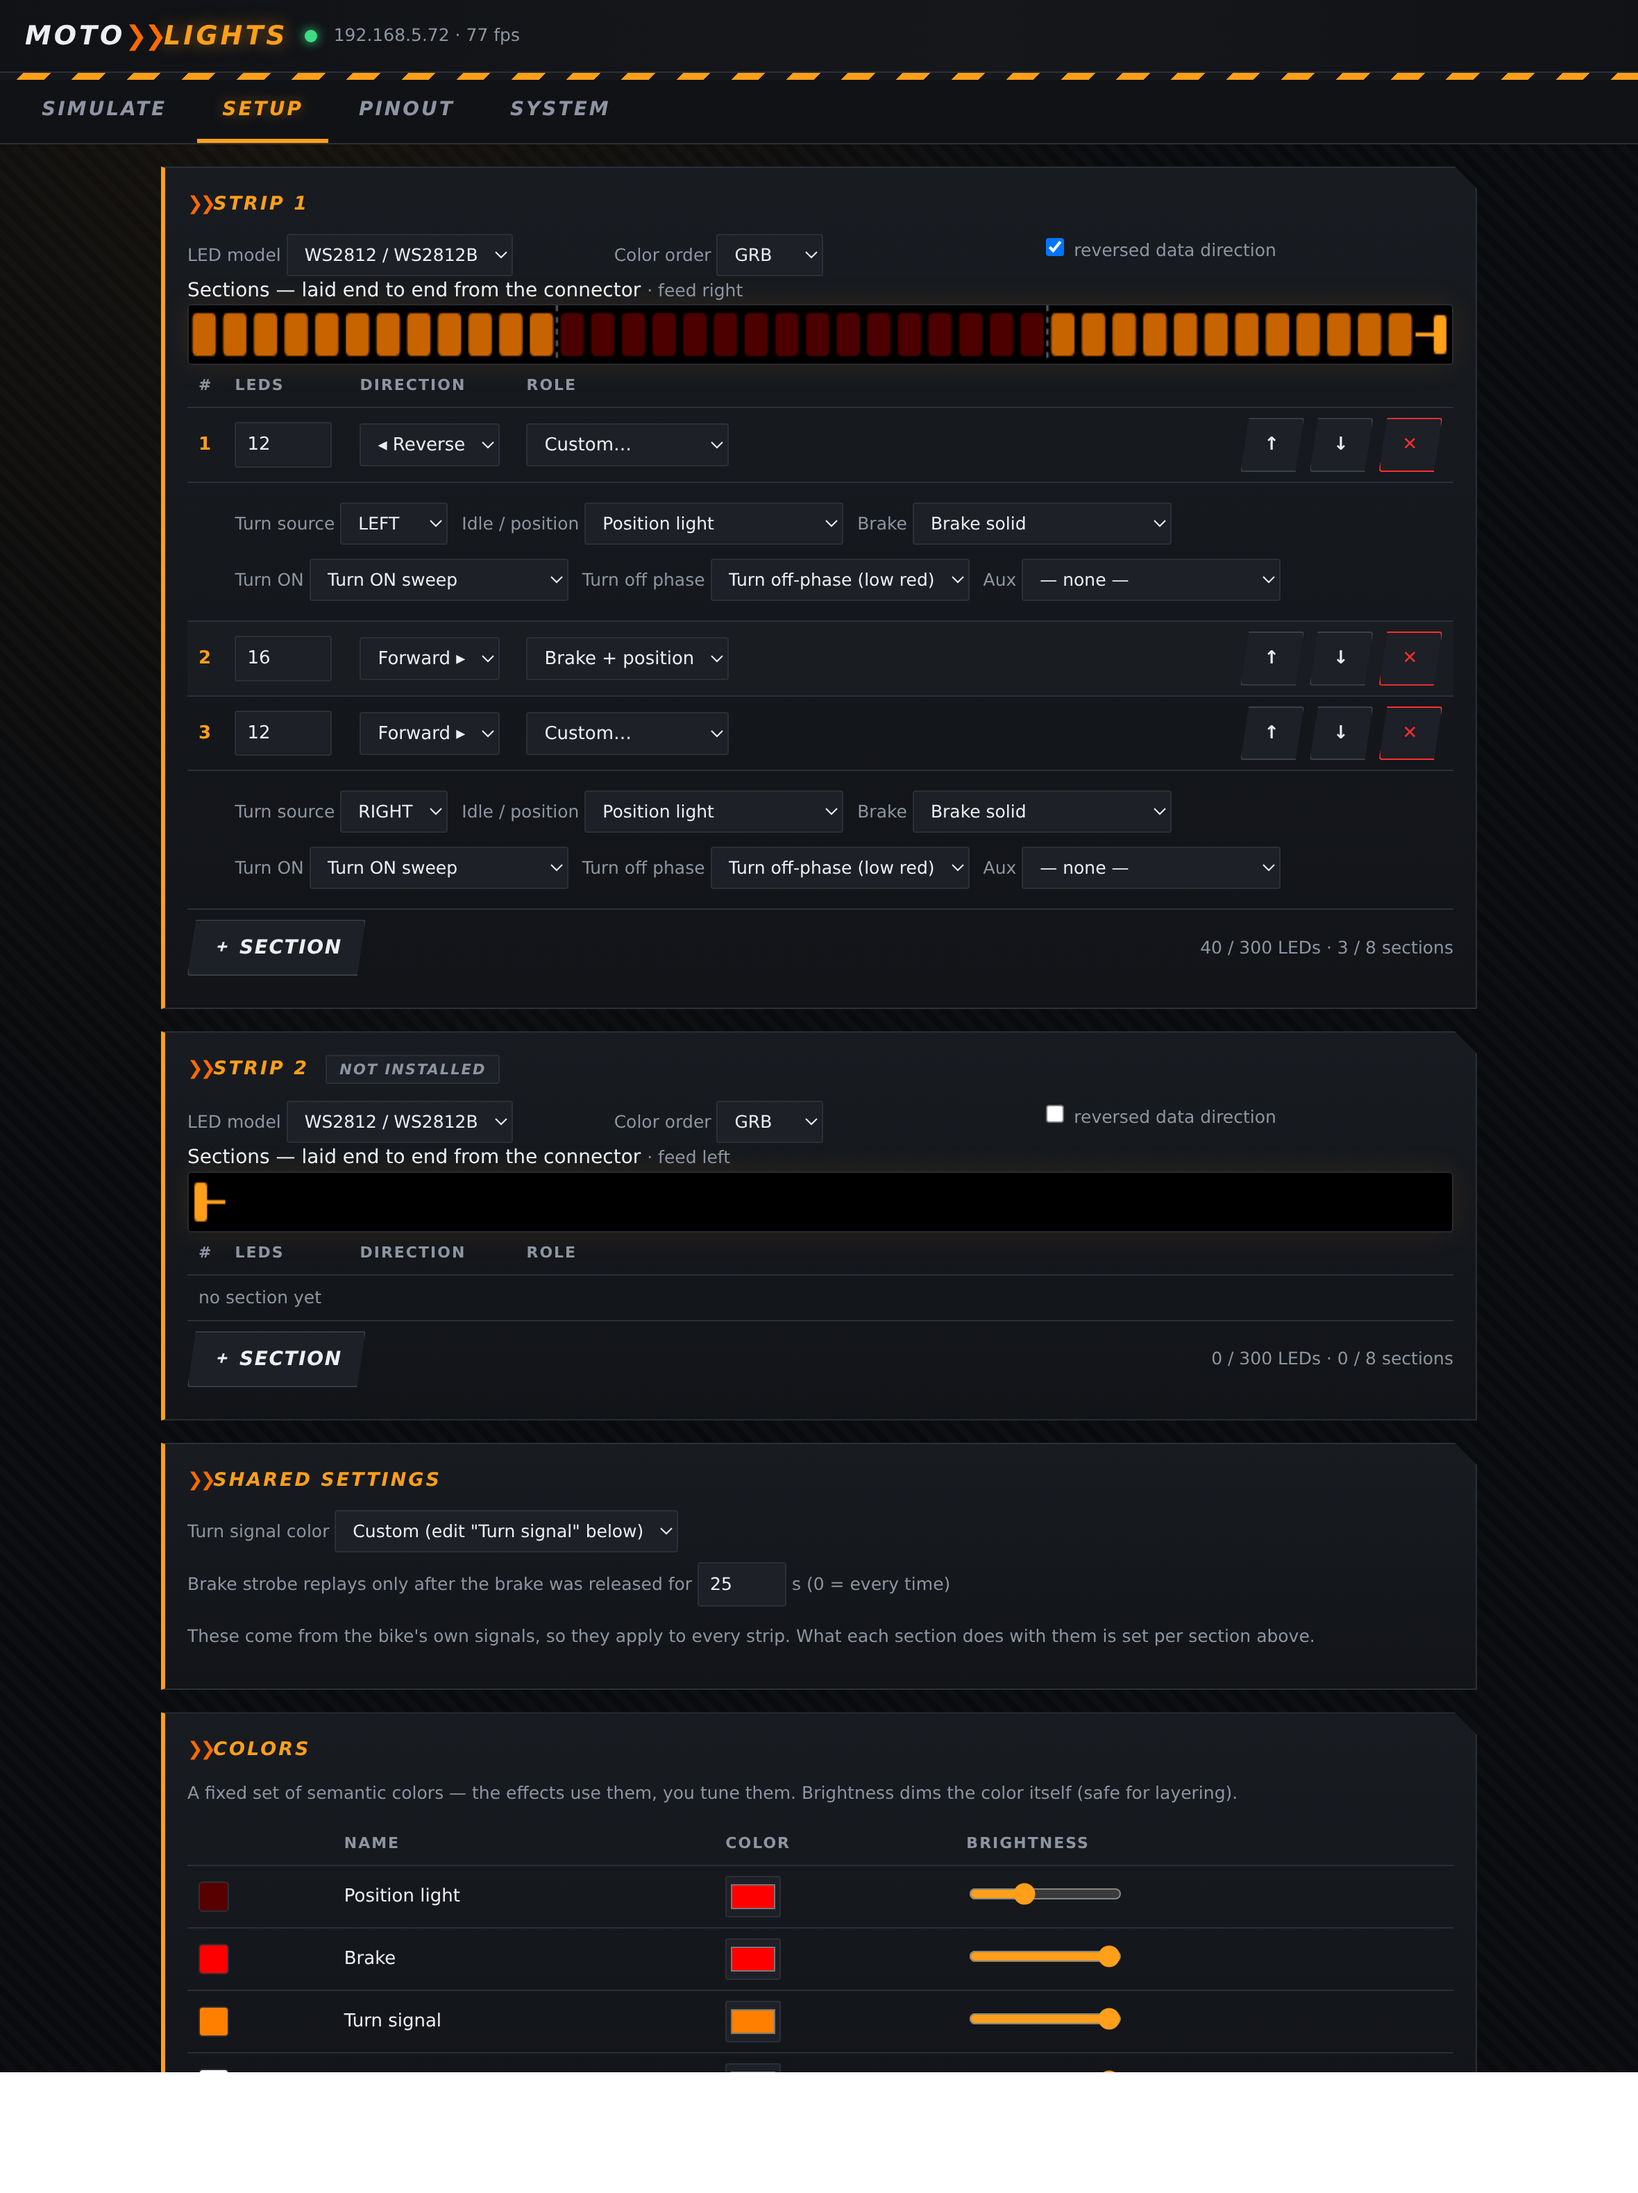
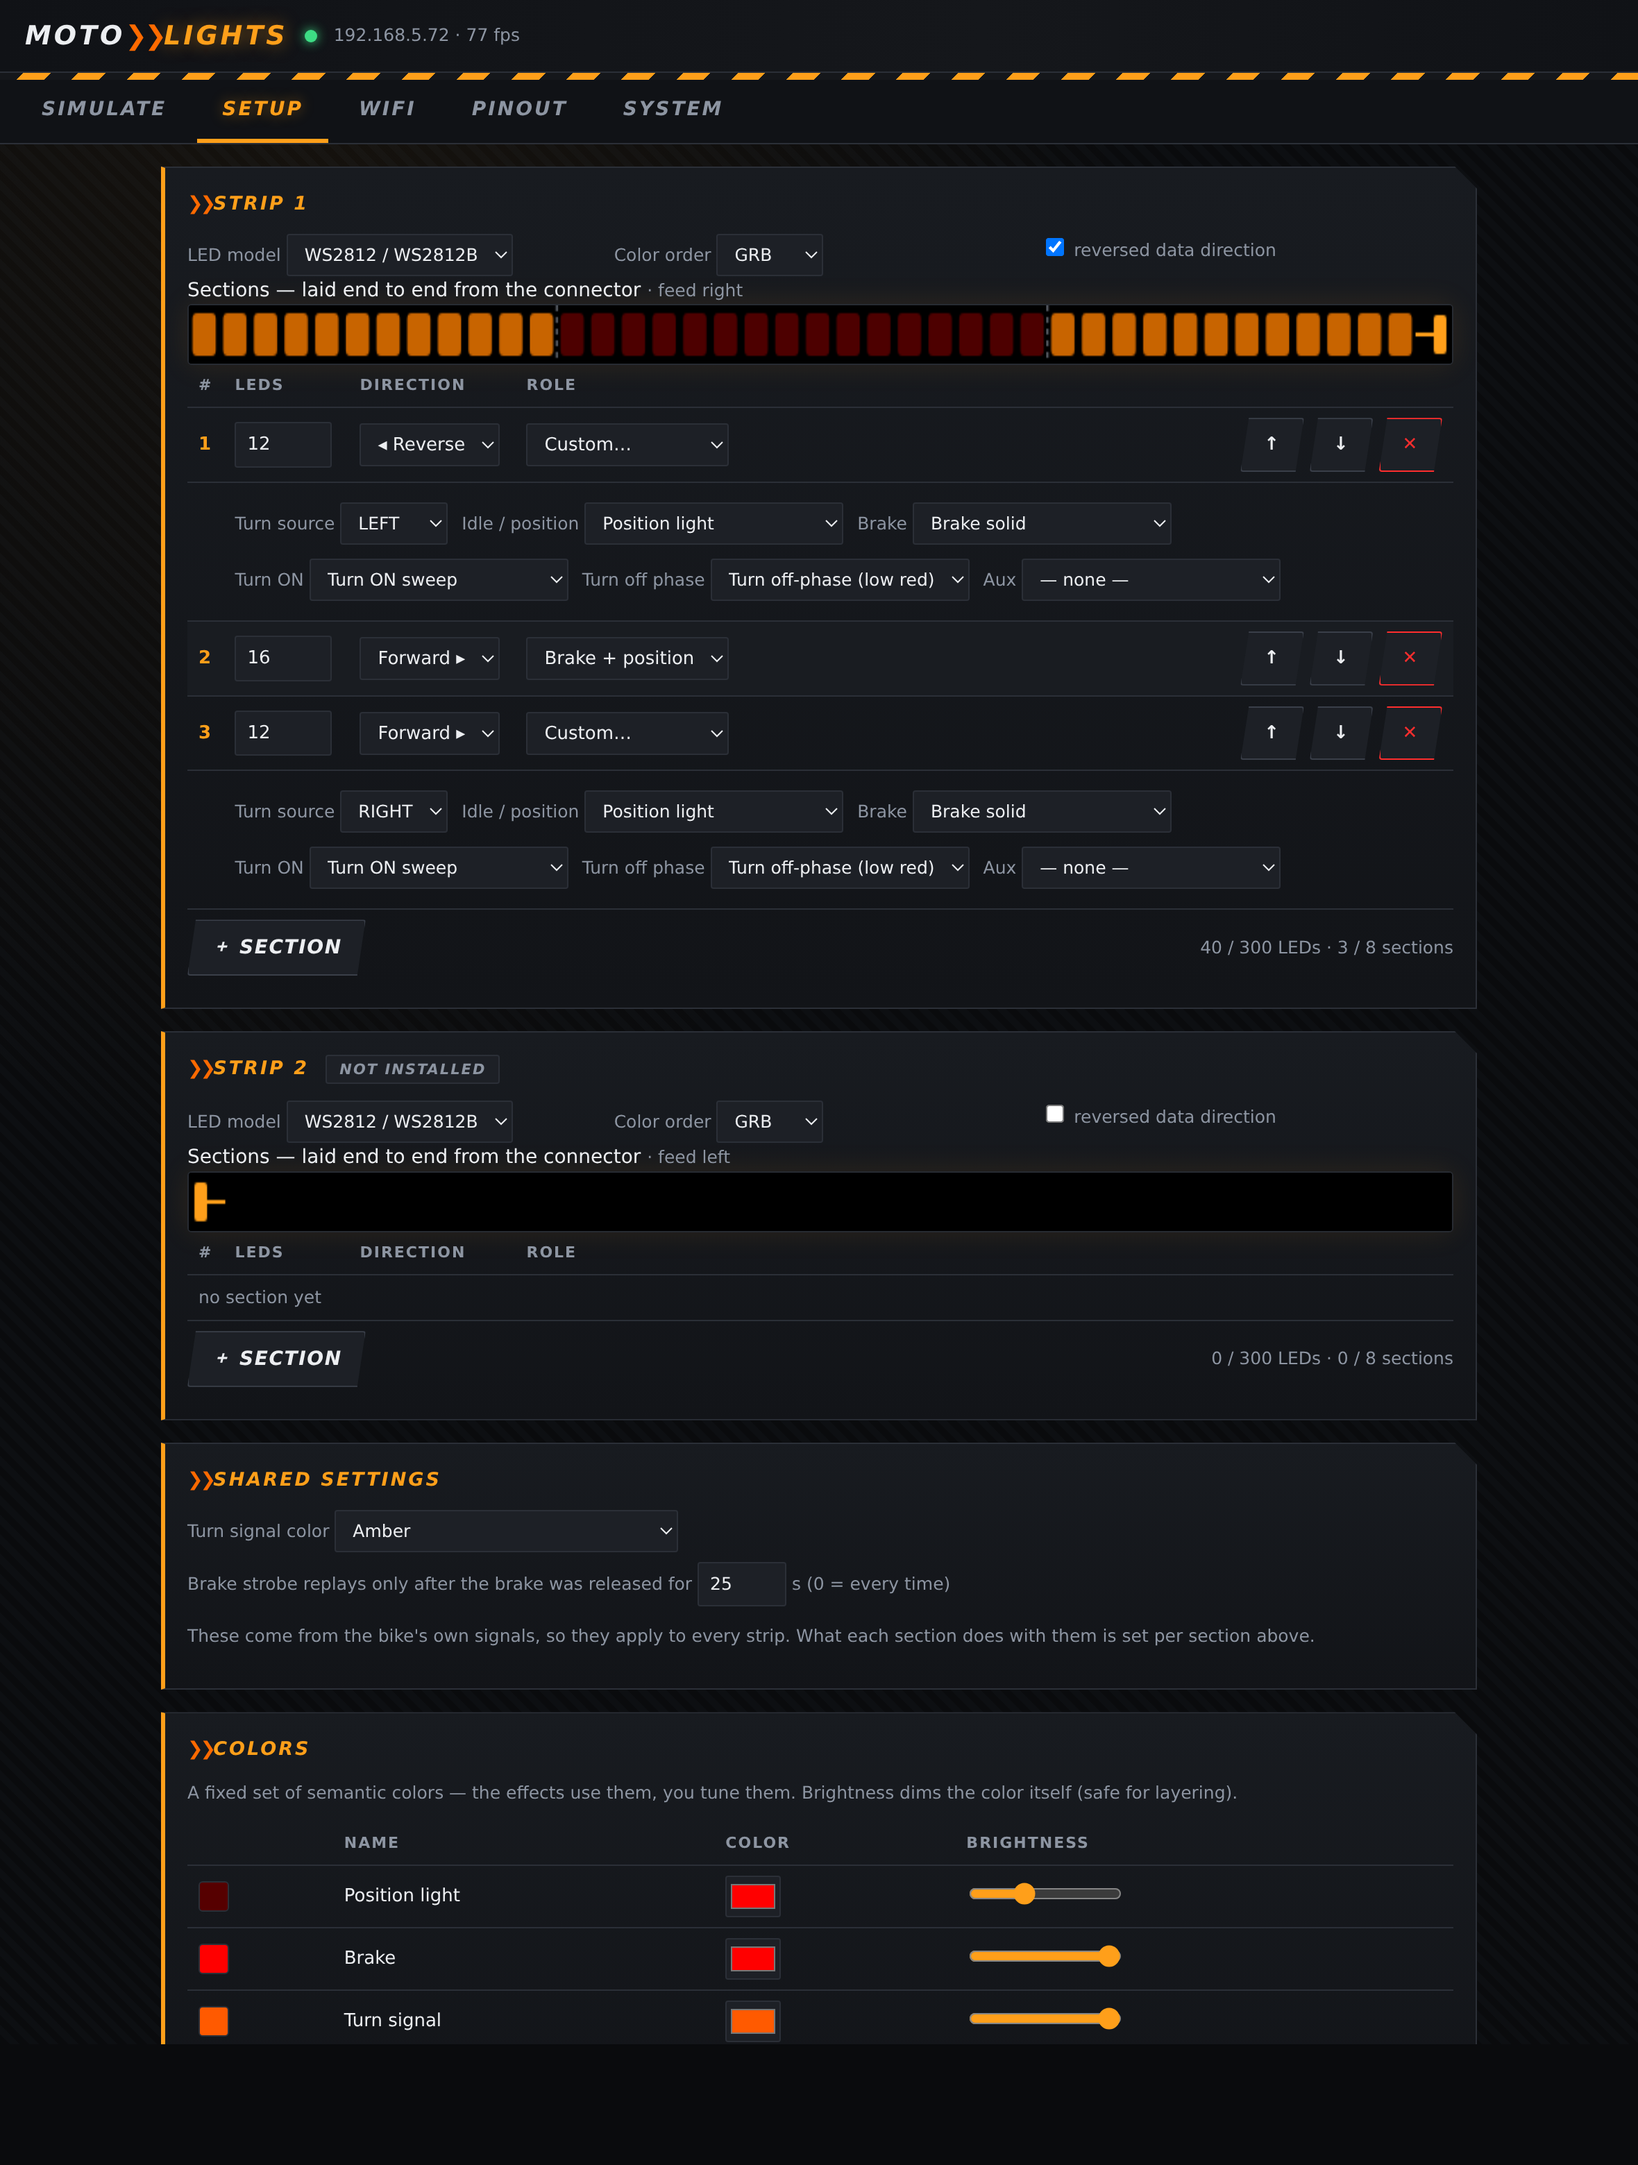
Give the WiFi settings their own tab
They had nothing to do with describing a strip, and they were the one card
on the Setup page that could not be screenshotted for the manual — it shows
the home network's name. Both Save buttons now take the same path (a PUT
carries the whole config either way), and the unsaved-changes warning covers
both editable tabs.

The manual gains a WiFi section, and the capture script gains the tab, with
the SSID field blurred by ffmpeg. Every screenshot was re-taken against the
running module and checked by pixel: no white strip, no cut-off card, equal
filler at the bottom of each.

diff --git a/firmware/webui/app.js b/firmware/webui/app.js
@@ -171,15 +171,17 @@ const TURN_AMBER=0xFF5A00FF,TURN_RED=0xFF0000FF,COLOR_TURN=2;
 /* Everything editable lives in Setup, and it is only applied on Save — so
    leaving the tab (or the page) with pending edits silently loses them. */
 let dirty=false;
-const LEAVE_WARNING='Unsaved changes in Setup. Leave anyway?';
+const LEAVE_WARNING='Unsaved changes. Leave anyway?';
 function markDirty(){
   if(dirty)return;
   dirty=true;
   $('savesetup').textContent='Save •';
+  $('savewifi').textContent='Save WiFi •';
 }
 function clearDirty(){
   dirty=false;
   $('savesetup').textContent='Save';
+  $('savewifi').textContent='Save WiFi';
 }
 window.addEventListener('beforeunload',e=>{
   if(!dirty)return;
@@ -198,8 +200,7 @@ function showTab(name){
   if('system'===name||'pinout'===name)loadSysinfo();
 }
 document.querySelectorAll('nav button').forEach(b=>b.onclick=()=>{
-  if(dirty&&'setup'===document.querySelector('nav button.act').dataset.tab&&
-     !confirm(LEAVE_WARNING))return;
+  if(dirty&&!confirm(LEAVE_WARNING))return;
   location.hash=b.dataset.tab;
   showTab(b.dataset.tab);
 });
@@ -496,6 +497,11 @@ async function loadIndex(){
   });
   if(cfg)renderShared();
 }
+function renderWifi(){
+  $('stassid').value=cfg.sta.ssid;
+  $('staactive').checked=cfg.sta.active;
+  $('stanote').textContent=cfg.sta.pass_set?'password saved':'no password';
+}
 function renderShared(){
   /* Per-section effects live in the section editor above; these two come from
      the bike's own signals and apply to every strip. */
@@ -639,9 +645,6 @@ function renderSetup(){
   bindSetupHandlers();
   cfg.strips.forEach((_,si)=>drawSections(si));
 
-  $('stassid').value=cfg.sta.ssid;
-  $('staactive').checked=cfg.sta.active;
-  $('stanote').textContent=cfg.sta.pass_set?'password saved':'no password';
   $('simsections').textContent=cfg.strips.map((st,i)=>
     0===totalLeds(st)?`${STRIP_LABEL(i)}: none`:
     `${STRIP_LABEL(i)}: ${totalLeds(st)} LEDs, `+
@@ -653,12 +656,14 @@ function bindSetupHandlers(){
   const host=$('setupstrips');
   /* One place marks the tab dirty: every control that mutates cfg is inside
      it, and the reorder/add/delete buttons only ever fire a click. */
-  const tab=$('tab-setup');
-  tab.oninput=markDirty;
-  tab.onchange=markDirty;
-  tab.onclick=e=>{
-    if(e.target.closest('[data-add],[data-move],[data-del]'))markDirty();
-  };
+  for(const id of ['tab-setup','tab-wifi']){
+    const tab=$(id);
+    tab.oninput=markDirty;
+    tab.onchange=markDirty;
+    tab.onclick=e=>{
+      if(e.target.closest('[data-add],[data-move],[data-del]'))markDirty();
+    };
+  }
   host.querySelectorAll('[data-sp]').forEach(el=>{
     const upd=()=>{
       const[si,key]=el.dataset.sp.split(':');
@@ -767,7 +772,9 @@ function drawSections(si){
   drawFeed(ctx,cv,feedLeft);
 }
 
-$('savesetup').onclick=async()=>{
+/* A PUT carries the whole config, so both Save buttons take the same path:
+   collect every editable field, send, reload from the module. */
+async function saveConfig(){
   for(const[i,st]of cfg.strips.entries()){
     if(totalLeds(st)>MAX_LEDS||st.sections.length>MAX_SECTIONS){
       return toast(`${STRIP_LABEL(i)}: too many LEDs or sections`,true);
@@ -787,7 +794,9 @@ $('savesetup').onclick=async()=>{
     clearDirty();
     toast('saved ✓');
   }catch(e){toast(e,true);}
-};
+}
+$('savesetup').onclick=saveConfig;
+$('savewifi').onclick=saveConfig;
 $('restorebtn').onclick=async()=>{
   if(!confirm('Restore factory sections and setup?'))return;
   try{
@@ -870,7 +879,8 @@ async function loadSysinfo(){
 $('sysrefresh').onclick=loadSysinfo;
 
 /* ---- boot ---- */
-function renderAll(){renderShared();renderPalette();renderSetup();renderLiveStrips();}
+function renderAll(){renderShared();renderPalette();renderSetup();
+  renderWifi();renderLiveStrips();}
 (async()=>{
   try{
     cfg=decodeConfig(await api('config'));

diff --git a/firmware/webui/index.html b/firmware/webui/index.html
@@ -16,6 +16,7 @@
 <nav>
   <button data-tab="sim" class="act">Simulate</button>
   <button data-tab="setup">Setup</button>
+  <button data-tab="wifi">WiFi</button>
   <button data-tab="pinout">Pinout</button>
   <button data-tab="system">System</button>
 </nav>
@@ -84,6 +85,14 @@
     tune them. Brightness dims the color itself (safe for layering).</p>
     <table id="palrows"><thead><tr><th></th><th>Name</th><th>Color</th><th>Brightness</th></tr></thead><tbody></tbody></table>
   </div>
+  <div class="row">
+    <button class="btn acc" id="savesetup">Save</button>
+    <span style="flex:1"></span>
+    <button class="btn danger" id="restorebtn">Restore defaults</button>
+  </div>
+</section>
+
+<section id="tab-wifi">
   <div class="card">
     <h2>WiFi — home network</h2>
     <div class="row">
@@ -97,10 +106,10 @@
     the config WiFi is up. The password is write-only: leave it blank to keep
     the current one.</p>
   </div>
+  <p class="muted">Optional, and only to make the page easier to reach: the
+  module brings no radio up on its own at boot — the button does.</p>
   <div class="row">
-    <button class="btn acc" id="savesetup">Save</button>
-    <span style="flex:1"></span>
-    <button class="btn danger" id="restorebtn">Restore defaults</button>
+    <button class="btn acc" id="savewifi">Save WiFi</button>
   </div>
 </section>
 

diff --git a/user_manual/README.md b/user_manual/README.md
@@ -57,14 +57,14 @@ the module button once to bring it up; press again to shut it down.
 2. Join the WiFi network **MotoLights** from your phone or laptop.
 3. Open **http://192.168.4.1**.
 
-If you gave the module your home WiFi in Setup, it also joins that network
-when the config WiFi is up, and the page is reachable at the address shown in
-the System tab. The SoftAP always stays available either way, so you can
+If you gave the module your home network in the **WiFi** tab, it also joins
+that network when the config WiFi is up, and the page is reachable at the
+address shown in the System tab. The SoftAP always stays available either way, so you can
 never lock yourself out.
 
-The page has four tabs. Everything you change lives in **Setup** and is only
-applied when you press **Save** — the Save button grows a dot when you have
-unsaved changes, and leaving the tab asks first.
+The page has five tabs. Everything you change lives in **Setup** and
+**WiFi**, and is only applied when you press **Save** — the button grows a
+dot when you have unsaved changes, and leaving asks first.
 
 ---
 
@@ -162,13 +162,6 @@ effects refer to. Editing one changes every effect that uses it. The
 brightness slider dims the colour itself, and it is the **only** brightness
 control: there is no separate per-strip level to fight with.
 
-### WiFi — home network
-
-Optional. Enter your network's SSID and password to have the module join it
-whenever the config WiFi is up; it is only there to make the page easier to
-reach from a laptop. The password is write-only — leave it blank to keep the
-current one. The module never brings up any radio on its own at boot.
-
 ### Save / Restore defaults
 
 **Save** writes everything to the module's flash and applies it immediately.
@@ -177,7 +170,25 @@ current one. The module never brings up any radio on its own at boot.
 
 ---
 
-## 6. System — what the module reports
+## 6. WiFi — joining your home network
+
+![WiFi tab](img/05-wifi.png)
+
+Optional, and only there to make the page easier to reach from a laptop:
+enter your network's SSID and password and the module joins it whenever the
+config WiFi is up. The SoftAP stays available at the same time, so a wrong
+password here can never lock you out.
+
+The password is write-only — the field shows *(unchanged)* and leaving it
+blank keeps the one already stored. **STA active** is what decides whether
+the module tries to join at all. None of this makes the module transmit on
+its own: the radio still only comes up when you press the button.
+
+*(The SSID is blurred in this screenshot, not on your page.)*
+
+---
+
+## 7. System — what the module reports
 
 ![System tab](img/04-system.png)
 
@@ -189,7 +200,7 @@ unexpected reset* here is worth reporting.
 
 ---
 
-## 7. How it behaves on the road
+## 8. How it behaves on the road
 
 **Turn signals.** The module measures your flasher's period the first time it
 sees it blink and remembers it across reboots. A sweep is scaled to that
@@ -213,7 +224,7 @@ the module — and it comes back dark rather than frozen on half a frame.
 
 ---
 
-## 8. Troubleshooting
+## 9. Troubleshooting
 
 | Symptom | What it means |
 |---|---|
@@ -230,7 +241,7 @@ A serial console is available at 115200 baud with a few commands: `wifi`,
 
 ---
 
-## 9. Limits
+## 10. Limits
 
 | | |
 |---|---|

diff --git a/CLAUDE.md b/CLAUDE.md
@@ -60,8 +60,9 @@ Regenerate the user manual before merging this branch into master.
    the animation live.
 3. Run firmware/tools/capture_screenshots.sh <ip>, then LOOK at every
    image in user_manual/img/: each tab fully framed, no cut-off card, no
-   empty black filler, and no personal data visible (the Setup capture
-   deliberately stops before the WiFi card, which shows the home SSID).
+   white strip at the bottom, and no personal data visible — the WiFi
+   capture blurs the home SSID with a hard-coded box, so check that the
+   blur still lands on the field if that card's layout moved.
 4. Clear the simulation afterwards — override off and every forced signal
    off — so the module is left following its real inputs.
 5. Read user_manual/README.md against what the screenshots now show and
